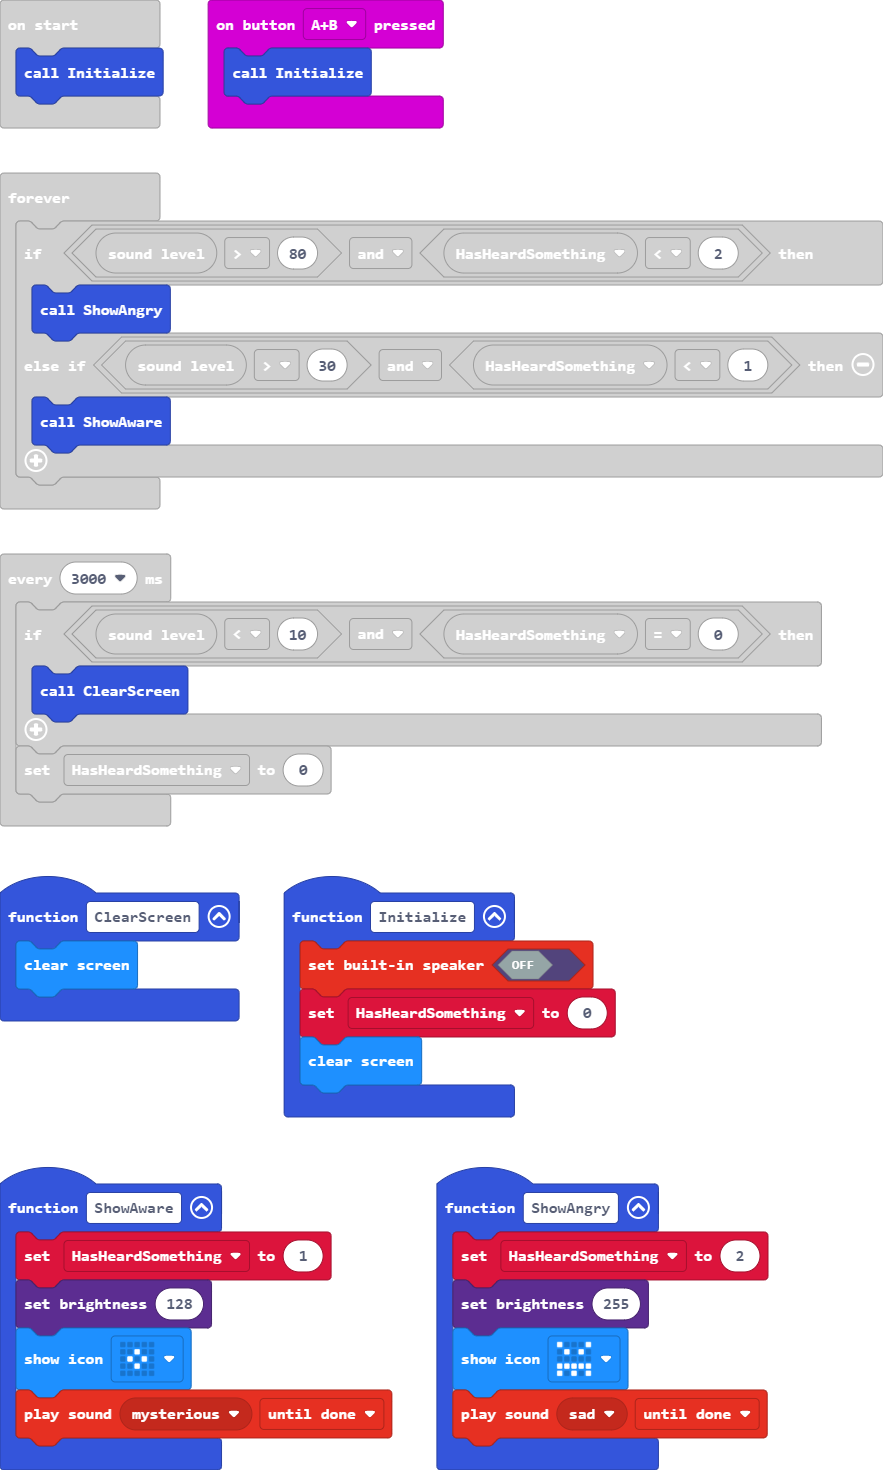
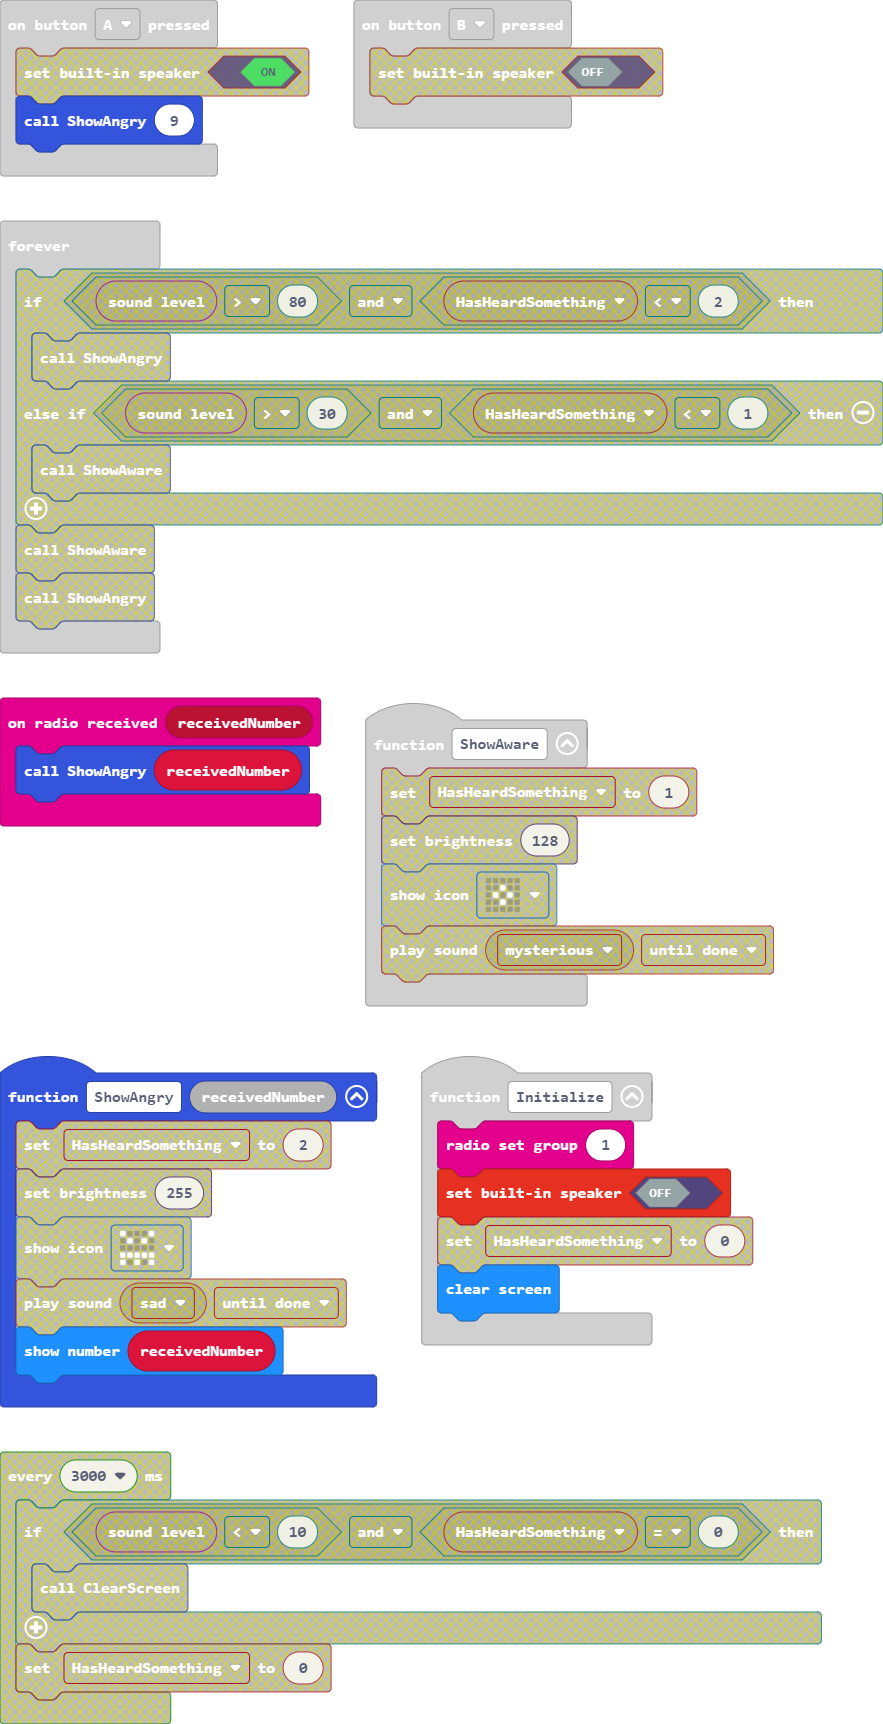
Removed a lot of code to be ONLY a warden, as there is now a seperate Shrieker/Sensor module

diff --git a/main.ts b/main.ts
@@ -1,44 +1,30 @@
+radio.onReceivedNumber(function (receivedNumber) {
+    ShowAngry(receivedNumber)
+})
 input.onButtonPressed(Button.A, function () {
-    music.setBuiltInSpeakerEnabled(true)
+    ShowAngry(9)
 })
 function ShowAware () {
-    HasHeardSomething = 1
-    led.setBrightness(128)
-    basic.showIcon(IconNames.SmallDiamond)
-    music.playSoundEffect(music.builtinSoundEffect(soundExpression.mysterious), SoundExpressionPlayMode.UntilDone)
+	
 }
 input.onButtonPressed(Button.AB, function () {
     Initialize()
 })
 input.onButtonPressed(Button.B, function () {
-    music.setBuiltInSpeakerEnabled(false)
+	
 })
 function Initialize () {
+    radio.setGroup(1)
     music.setBuiltInSpeakerEnabled(false)
-    HasHeardSomething = 0
     basic.clearScreen()
 }
 function ClearScreen () {
     basic.clearScreen()
 }
-function ShowAngry () {
-    HasHeardSomething = 2
-    led.setBrightness(255)
-    basic.showIcon(IconNames.Angry)
-    music.playSoundEffect(music.builtinSoundEffect(soundExpression.sad), SoundExpressionPlayMode.UntilDone)
+function ShowAngry (receivedNumber: number) {
+    basic.showNumber(receivedNumber)
 }
-let HasHeardSomething = 0
 Initialize()
 basic.forever(function () {
-    if (input.soundLevel() > 80 && HasHeardSomething < 2) {
-        ShowAngry()
-    } else if (input.soundLevel() > 30 && HasHeardSomething < 1) {
-        ShowAware()
-    }
-})
-loops.everyInterval(3000, function () {
-    if (input.soundLevel() < 10 && HasHeardSomething == 0) {
-        ClearScreen()
-    }
-    HasHeardSomething = 0
+	
 })
